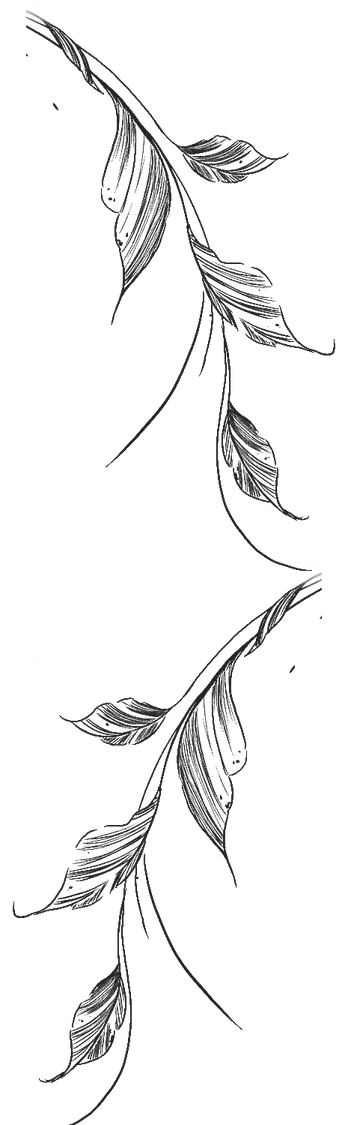
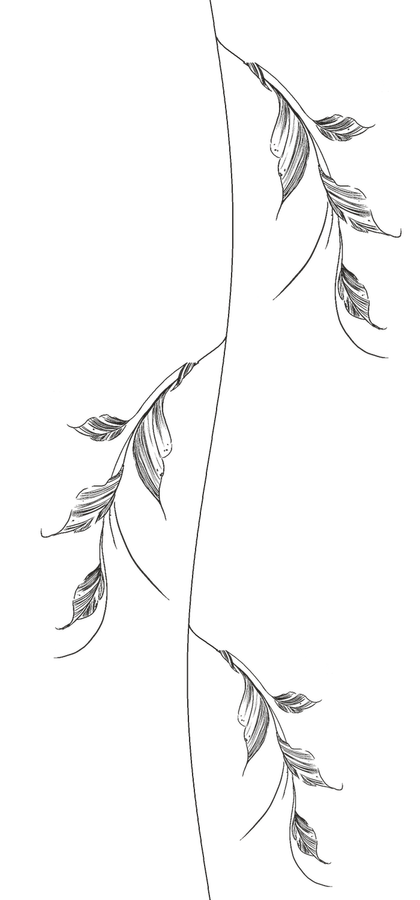
Add files via upload

diff --git a/index.html b/index.html
@@ -262,14 +262,14 @@ body { position: relative; }
   position: absolute;
   top: 0;
   bottom: 0;
-  width: 230px;
-  opacity: .78;
+  width: 300px;
+  opacity: .8;
   background: url("vetvicka.png") repeat-y;
-  background-size: 230px auto;
+  background-size: 300px auto;
 }
-.vetva-pas.vlavo { left: calc(50% - 26rem - 270px); }
-.vetva-pas.vpravo { right: calc(50% - 26rem - 270px); transform: scaleX(-1); background-position: 0 -190px; }
-@media (max-width: 76rem) { .vetvy { display: none; } }
+.vetva-pas.vlavo { left: calc(50% - 26rem - 315px); }
+.vetva-pas.vpravo { right: calc(50% - 26rem - 315px); transform: scaleX(-1); background-position: 0 -330px; }
+@media (max-width: 80rem) { .vetvy { display: none; } }
 
 /* Líška v päte */
 .liska { display: block; width: 190px; height: auto; margin: 0 auto 1.25rem; opacity: .88; }
